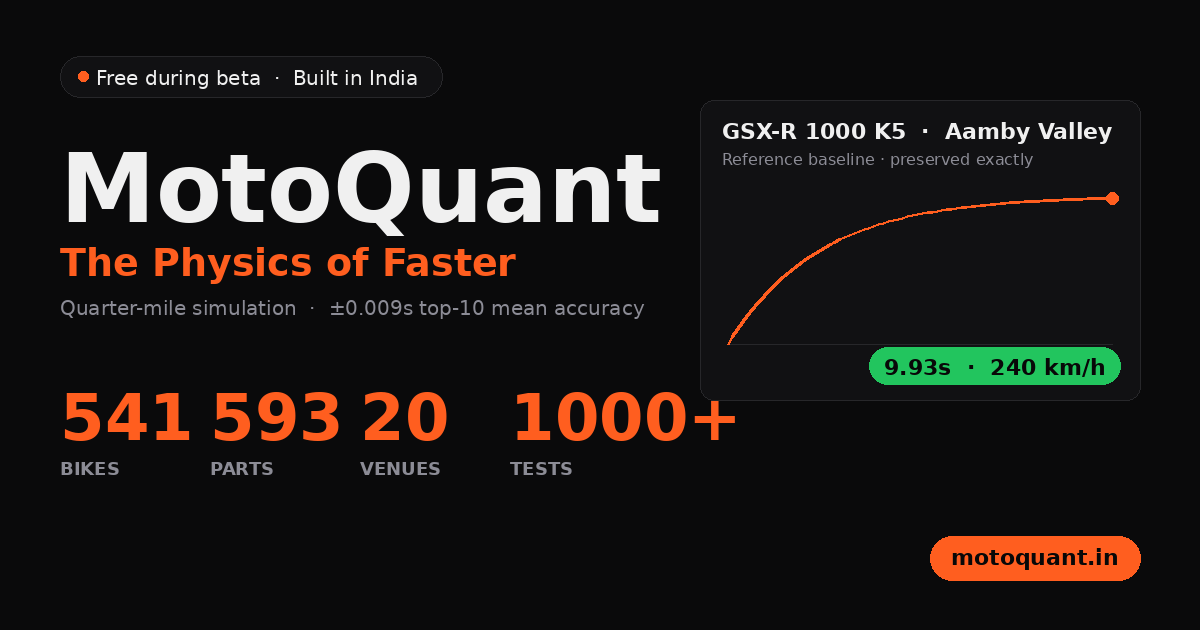
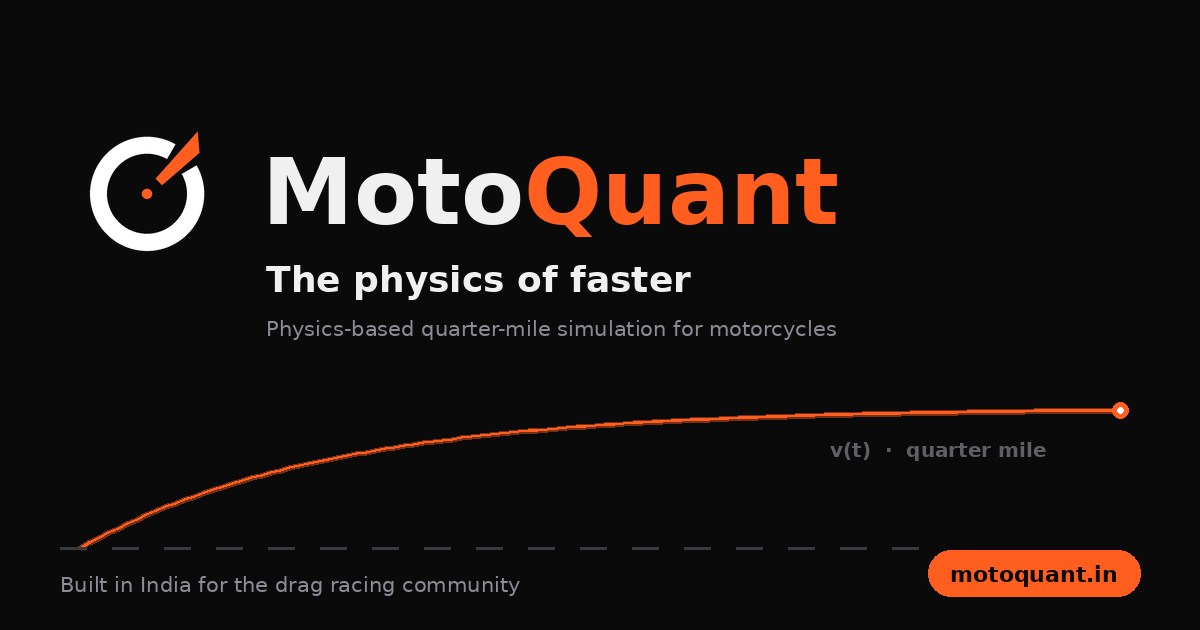
feat(brand): evergreen OG card — no volatile numbers, single owner
The share card no longer carries catalog counts, accuracy figures or
beta copy — nothing that goes stale when the DB grows or a physics
epoch moves the pins. Pure brand: redline-Q mark (kit geometry),
Moto/Quant lockup, tagline, an unlabeled v(t) sweep, centerline motif,
domain pill. regenerate_og_card keeps its (truth, ...) signature so
the --regen-og / og_image_stale machinery is untouched (regen is now
idempotent in content).

Also fixes the dual-ownership trap: generate_brand_assets.py no longer
writes og-image.png (audit script is the single owner); its legacy
renderer is retained as a reference layout only.

Claude-Session: https://claude.ai/code/session_01BzNs35phFrWJNunRoqCkVF

diff --git a/scripts/audit_headline_stats.py b/scripts/audit_headline_stats.py
@@ -793,7 +793,16 @@ def apply_fixes(truth, verbose=True):
 
 
 def regenerate_og_card(truth, output_path: Path | None = None, verbose=True) -> Path:
-    """Render a 1200×630 OG social card matching the existing layout."""
+    """Render the 1200x630 OG social card.
+
+    EVERGREEN BY DESIGN (July 2026, operator decision): the card carries no
+    catalog counts, no accuracy figures, no beta copy — nothing that goes
+    stale when the DB grows or a physics epoch moves the pins. It is pure
+    brand: the identity-kit redline-Q mark, the Moto/Quant lockup, the
+    tagline, an unlabeled v(t) curve, and the domain. `truth` is accepted
+    for call-site compatibility but deliberately unused.
+    """
+    del truth  # evergreen — see docstring
     try:
         from PIL import Image, ImageDraw, ImageFont
     except ImportError as exc:
@@ -804,34 +813,29 @@ def regenerate_og_card(truth, output_path: Path | None = None, verbose=True) -> 
     out_path = output_path or OG_IMAGE_PATH
 
     W, H = 1200, 630
-    # IGNITION v5 brand (July 2026, identity kit): ink surfaces + signal
-    # orange. Variable names kept so the layout code below is untouched.
-    BG = (10, 10, 11)  # ink (identity kit)
-    PANEL = (17, 17, 19)  # ink-2
-    BORDER = (39, 39, 42)  # ink-4
+    # IGNITION v5 brand (identity kit): Ink surfaces + Signal orange.
+    BG = (10, 10, 11)
     TEXT = (240, 240, 240)
     DIM = (140, 140, 150)
-    ORANGE = (255, 94, 31)  # signal (identity kit)
-    GREEN = (34, 197, 94)  # signal-go
+    ORANGE = (255, 94, 31)
 
     img = Image.new("RGB", (W, H), BG)
     d = ImageDraw.Draw(img)
 
     def _font(size, weight="regular"):
-        # Try common system fonts; fall back to default
-        candidates = []
-        if weight == "bold":
-            candidates = [
+        candidates = (
+            [
                 "/usr/share/fonts/truetype/dejavu/DejaVuSans-Bold.ttf",
-                "/usr/share/fonts/TTF/DejaVuSans-Bold.ttf",
+                "/usr/share/fonts/truetype/liberation/LiberationSans-Bold.ttf",
                 "/Library/Fonts/Arial Bold.ttf",
             ]
-        else:
-            candidates = [
+            if weight == "bold"
+            else [
                 "/usr/share/fonts/truetype/dejavu/DejaVuSans.ttf",
-                "/usr/share/fonts/TTF/DejaVuSans.ttf",
+                "/usr/share/fonts/truetype/liberation/LiberationSans-Regular.ttf",
                 "/Library/Fonts/Arial.ttf",
             ]
+        )
         for path in candidates:
             try:
                 return ImageFont.truetype(path, size)
@@ -839,181 +843,81 @@ def regenerate_og_card(truth, output_path: Path | None = None, verbose=True) -> 
                 continue
         return ImageFont.load_default()
 
-    f_pill = _font(20)
-    f_brand = _font(96, "bold")
-    f_tag = _font(38, "bold")
-    f_sub = _font(20)
-    f_stat_n = _font(64, "bold")
-    f_stat_l = _font(18, "bold")
+    f_brand = _font(92, "bold")
+    f_tag = _font(36, "bold")
+    f_sub = _font(21)
     f_url = _font(22, "bold")
-    f_chart = _font(22, "bold")
-    f_chart_sub = _font(16)
+    f_chart = _font(20, "bold")
 
-    # ── Top pill ────────────────────────────────────────────────────────
-    # NOT "Open Source" — the product is deliberately hosted-only/closed
-    # (June 2026 desktop re-arch chose the architecture that protects the
-    # IP). The old pill was a trust liability on every social share.
-    pill_text = "Free during beta  ·  Built in India"
-    pill_x, pill_y = 60, 56
-    bbox = d.textbbox((0, 0), pill_text, font=f_pill)
-    pw = bbox[2] - bbox[0] + 60
-    ph = bbox[3] - bbox[1] + 22
-    d.rounded_rectangle(
-        (pill_x, pill_y, pill_x + pw, pill_y + ph),
-        radius=ph // 2,
-        fill=PANEL,
-        outline=BORDER,
-        width=1,
-    )
-    # Orange dot
-    d.ellipse(
-        (pill_x + 18, pill_y + ph // 2 - 5, pill_x + 28, pill_y + ph // 2 + 5),
-        fill=ORANGE,
-    )
-    d.text((pill_x + 36, pill_y + 10), pill_text, font=f_pill, fill=TEXT)
+    # ── Redline-Q mark (identity-kit geometry, 512 reference frame) ──────
+    def draw_mark(cx0, cy0, size):
+        """Supersampled mark pasted at (cx0, cy0) top-left, side = size."""
+        ss = 4
+        m = Image.new("RGBA", (size * ss, size * ss), (0, 0, 0, 0))
+        md = ImageDraw.Draw(m)
+        k = size * ss / 512.0
+        cx, cy = 256 * k, 263.6 * k
+        r_out, r_in = 153.6 * k, 107.52 * k
+        md.ellipse(
+            [cx - r_out, cy - r_out, cx + r_out, cy + r_out], fill=(255, 255, 255, 255)
+        )
+        md.ellipse([cx - r_in, cy - r_in, cx + r_in, cy + r_in], fill=(*BG, 255))
+        gr = r_out * 1.25
+        md.pieslice([cx - gr, cy - gr, cx + gr, cy + gr], -60, -30, fill=(*BG, 255))
+        quad = [(296.89, 240.25), (397.22, 152.95), (392.58, 95.69), (278.97, 222.33)]
+        md.polygon([(x * k, y * k) for x, y in quad], fill=(*ORANGE, 255))
+        hub = 13.6 * k
+        md.ellipse([cx - hub, cy - hub, cx + hub, cy + hub], fill=(*ORANGE, 255))
+        m = m.resize((size, size), Image.LANCZOS)
+        img.paste(m, (cx0, cy0), m)
 
-    # ── Brand wordmark ──────────────────────────────────────────────────
-    d.text((60, 132), "MotoQuant", font=f_brand, fill=TEXT)
-    d.text((60, 240), "The Physics of Faster", font=f_tag, fill=ORANGE)
+    # ── v(t) sweep — unlabeled, drawn first so type always wins ──────────
+    pts = []
+    n_pts = 110
+    for i in range(n_pts):
+        t = i / (n_pts - 1)
+        v = 1 - 2.71828 ** (-4.2 * t)
+        x = 80 + (1120 - 80) * t
+        yy = 548 - (548 - 408) * v
+        pts.append((x, yy))
+    d.line(pts, fill=(120, 48, 20), width=6)
+    d.line(pts, fill=ORANGE, width=3)
+    ex, ey = pts[-1]
+    d.ellipse((ex - 8, ey - 8, ex + 8, ey + 8), fill=ORANGE)
+    d.ellipse((ex - 3, ey - 3, ex + 3, ey + 3), fill=(255, 255, 255))
+    d.text((830, 438), "v(t)  ·  quarter mile", font=f_chart, fill=(96, 96, 100))
 
-    # Top-10 mean accuracy from latest sweep. Fallback = the July-13 2026
-    # published corpus value (docs/validation top-10 mean ±0.009s) — the old
-    # ±0.006 fallback predated the physics-recalibration + corpus-expansion
-    # epoch and understated the site.
-    top10 = "±0.009"
-    try:
-        sweep_files = sorted(REPO.glob("reports/sweep_et_*.json"), reverse=True)
-        if sweep_files:
-            data = json.loads(sweep_files[0].read_text())
-            # data structure varies; look for top-10 mean in summary
-            summary = data.get("summary") or {}
-            if isinstance(summary, dict):
-                for k in (
-                    "top10_mean_abs_delta_s",
-                    "top_10_mean_abs",
-                    "top10_mean_delta",
-                ):
-                    if k in summary:
-                        top10 = f"±{float(summary[k]):.3f}"
-                        break
-    except Exception:
-        pass
+    # ── Dashed centerline motif (the strip) under the curve ──────────────
+    y = 548
+    x = 60
+    while x < 900:
+        d.line([(x, y), (x + 26, y)], fill=(58, 58, 62), width=3)
+        x += 52
 
-    sub = f"Quarter-mile simulation  ·  {top10}s top-10 mean accuracy"
-    d.text((60, 296), sub, font=f_sub, fill=DIM)
-
-    # ── 4-stat grid in orange ───────────────────────────────────────────
-    bikes_n = truth.get("all_known_bikes", "—")
-    parts_n = truth.get("parts_db", "—")
-    venues_n = truth.get("venues_db", "—")
-    tests_n = truth.get("tests_collected", "—")
-    if isinstance(tests_n, str) and (
-        tests_n.startswith(("ERROR", TEST_COUNT_SKIP_PREFIX))
-    ):
-        tests_n = "1000+"
-
-    stats = [
-        (str(bikes_n), "BIKES"),
-        (str(parts_n), "PARTS"),
-        (str(venues_n), "VENUES"),
-        (str(tests_n), "TESTS"),
-    ]
-
-    grid_x, grid_y = 60, 380
-    cell_w = 130
-    gap = 20
-    for i, (n, lbl) in enumerate(stats):
-        x = grid_x + i * (cell_w + gap)
-        y = grid_y
-        d.text((x, y), n, font=f_stat_n, fill=ORANGE)
-        d.text((x, y + 78), lbl, font=f_stat_l, fill=DIM)
-
-    # ── motoquant.in pill (bottom-right) ────────────────────────────────
-    url = "motoquant.in"
-    bbox = d.textbbox((0, 0), url, font=f_url)
-    uw = bbox[2] - bbox[0] + 42
-    uh = bbox[3] - bbox[1] + 22
-    ux = W - uw - 60
-    uy = H - uh - 50
-    d.rounded_rectangle(
-        (ux, uy, ux + uw, uy + uh), radius=uh // 2, fill=ORANGE, outline=ORANGE
-    )
-    d.text((ux + 21, uy + 8), url, font=f_url, fill=(8, 8, 8))
-
-    # ── Right panel: GSX-R K5 v(t) curve ─────────────────────────────────
-    panel_x = 700
-    panel_y = 100
-    panel_w = 440
-    panel_h = 300
-    d.rounded_rectangle(
-        (panel_x, panel_y, panel_x + panel_w, panel_y + panel_h),
-        radius=14,
-        fill=PANEL,
-        outline=BORDER,
-        width=1,
-    )
-
-    # Header strip
+    # ── Brand block: mark + lockup + tagline + evergreen sub ─────────────
+    draw_mark(52, 96, 190)
+    moto_w = d.textbbox((0, 0), "Moto", font=f_brand)[2]
+    d.text((262, 138), "Moto", font=f_brand, fill=TEXT)
+    d.text((262 + moto_w, 138), "Quant", font=f_brand, fill=ORANGE)
+    d.text((266, 258), "The physics of faster", font=f_tag, fill=TEXT)
     d.text(
-        (panel_x + 22, panel_y + 18),
-        "GSX-R 1000 K5  ·  Aamby Valley",
-        font=f_chart,
-        fill=TEXT,
-    )
-    d.text(
-        (panel_x + 22, panel_y + 50),
-        "Reference baseline · preserved exactly",
-        font=f_chart_sub,
+        (266, 316),
+        "Physics-based quarter-mile simulation for motorcycles",
+        font=f_sub,
         fill=DIM,
     )
 
-    # Plot region
-    pad_l = 28
-    pad_r = 28
-    pad_t = 96
-    pad_b = 56
-    plot_x0 = panel_x + pad_l
-    plot_y0 = panel_y + pad_t
-    plot_x1 = panel_x + panel_w - pad_r
-    plot_y1 = panel_y + panel_h - pad_b
-
-    # Approx K5 v(t) curve — sigmoid-ish ramp. ET comes from the LIVE pinned
-    # baseline in `truth` so the card can never quote a stale reference time
-    # (the July-13 physics epoch moved K5 10.0334 → 9.9331); trap speed is
-    # illustrative.
-    n_pts = 80
-    k5 = truth.get("baseline_k5")
-    t_max = k5 if isinstance(k5, (int, float)) else 9.9331
-    v_max = 239.8
-    pts = []
-    for i in range(n_pts):
-        t = i * t_max / (n_pts - 1)
-        # Empirical-ish K5 acceleration: rapid early ramp, then taper
-        v = v_max * (1 - 2.71828 ** (-0.42 * t))
-        x = plot_x0 + (plot_x1 - plot_x0) * (t / t_max)
-        y = plot_y1 - (plot_y1 - plot_y0) * (v / v_max)
-        pts.append((x, y))
-
-    # Axis baseline
-    d.line([(plot_x0, plot_y1), (plot_x1, plot_y1)], fill=BORDER, width=1)
-    # Curve
-    d.line(pts, fill=ORANGE, width=3)
-    # End-point dot
-    d.ellipse(
-        (pts[-1][0] - 6, pts[-1][1] - 6, pts[-1][0] + 6, pts[-1][1] + 6), fill=ORANGE
+    # ── Bottom row: origin line + domain pill ─────────────────────────────
+    d.text(
+        (60, 572), "Built in India for the drag racing community", font=f_sub, fill=DIM
     )
-
-    # Footer badge
-    badge_text = f"{t_max:.2f}s  ·  {v_max:.0f} km/h"
-    bbox = d.textbbox((0, 0), badge_text, font=f_chart)
-    bw = bbox[2] - bbox[0] + 30
-    bh = bbox[3] - bbox[1] + 18
-    bx = panel_x + panel_w - bw - 20
-    by = panel_y + panel_h - bh - 16
-    d.rounded_rectangle(
-        (bx, by, bx + bw, by + bh), radius=bh // 2, fill=GREEN, outline=GREEN
-    )
-    d.text((bx + 15, by + 7), badge_text, font=f_chart, fill=(8, 8, 8))
+    dom_text = "motoquant.in"
+    bbox = d.textbbox((0, 0), dom_text, font=f_url)
+    dw = bbox[2] - bbox[0] + 44
+    dh = 46
+    dx, dy = W - dw - 60, H - dh - 34
+    d.rounded_rectangle((dx, dy, dx + dw, dy + dh), radius=dh // 2, fill=ORANGE)
+    d.text((dx + 22, dy + 11), dom_text, font=f_url, fill=(10, 10, 11))
 
     img.save(out_path, "PNG", optimize=True)
     if verbose:

diff --git a/web/scripts/generate_brand_assets.py b/web/scripts/generate_brand_assets.py
@@ -10,8 +10,10 @@ Outputs (written to web/public/):
   - icon-192.png           (Android / PWA)
   - icon-512.png           (Android / PWA / high-res)
   - icon.svg               (scalable source)
-  - og-image.png           (1200x630, WhatsApp/Instagram/Twitter link preview)
   - site.webmanifest       (PWA manifest)
+
+og-image.png is NOT written here — scripts/audit_headline_stats.py owns it
+(single ownership; its card is evergreen by design, July 2026).
 """
 
 from pathlib import Path
@@ -467,10 +469,10 @@ def main() -> None:
     (OUT_DIR / "site.webmanifest").write_text(WEBMANIFEST, encoding="utf-8")
     print("wrote site.webmanifest")
 
-    # OG image
-    og_path = OUT_DIR / "og-image.png"
-    render_og_image(og_path)
-    print(f"wrote {og_path.name}")
+    # og-image.png deliberately NOT written here — the evergreen card is
+    # owned by scripts/audit_headline_stats.py (single ownership; the
+    # render_og_image() above is retained only as a reference layout for
+    # future marketing banners).
 
 
 if __name__ == "__main__":
